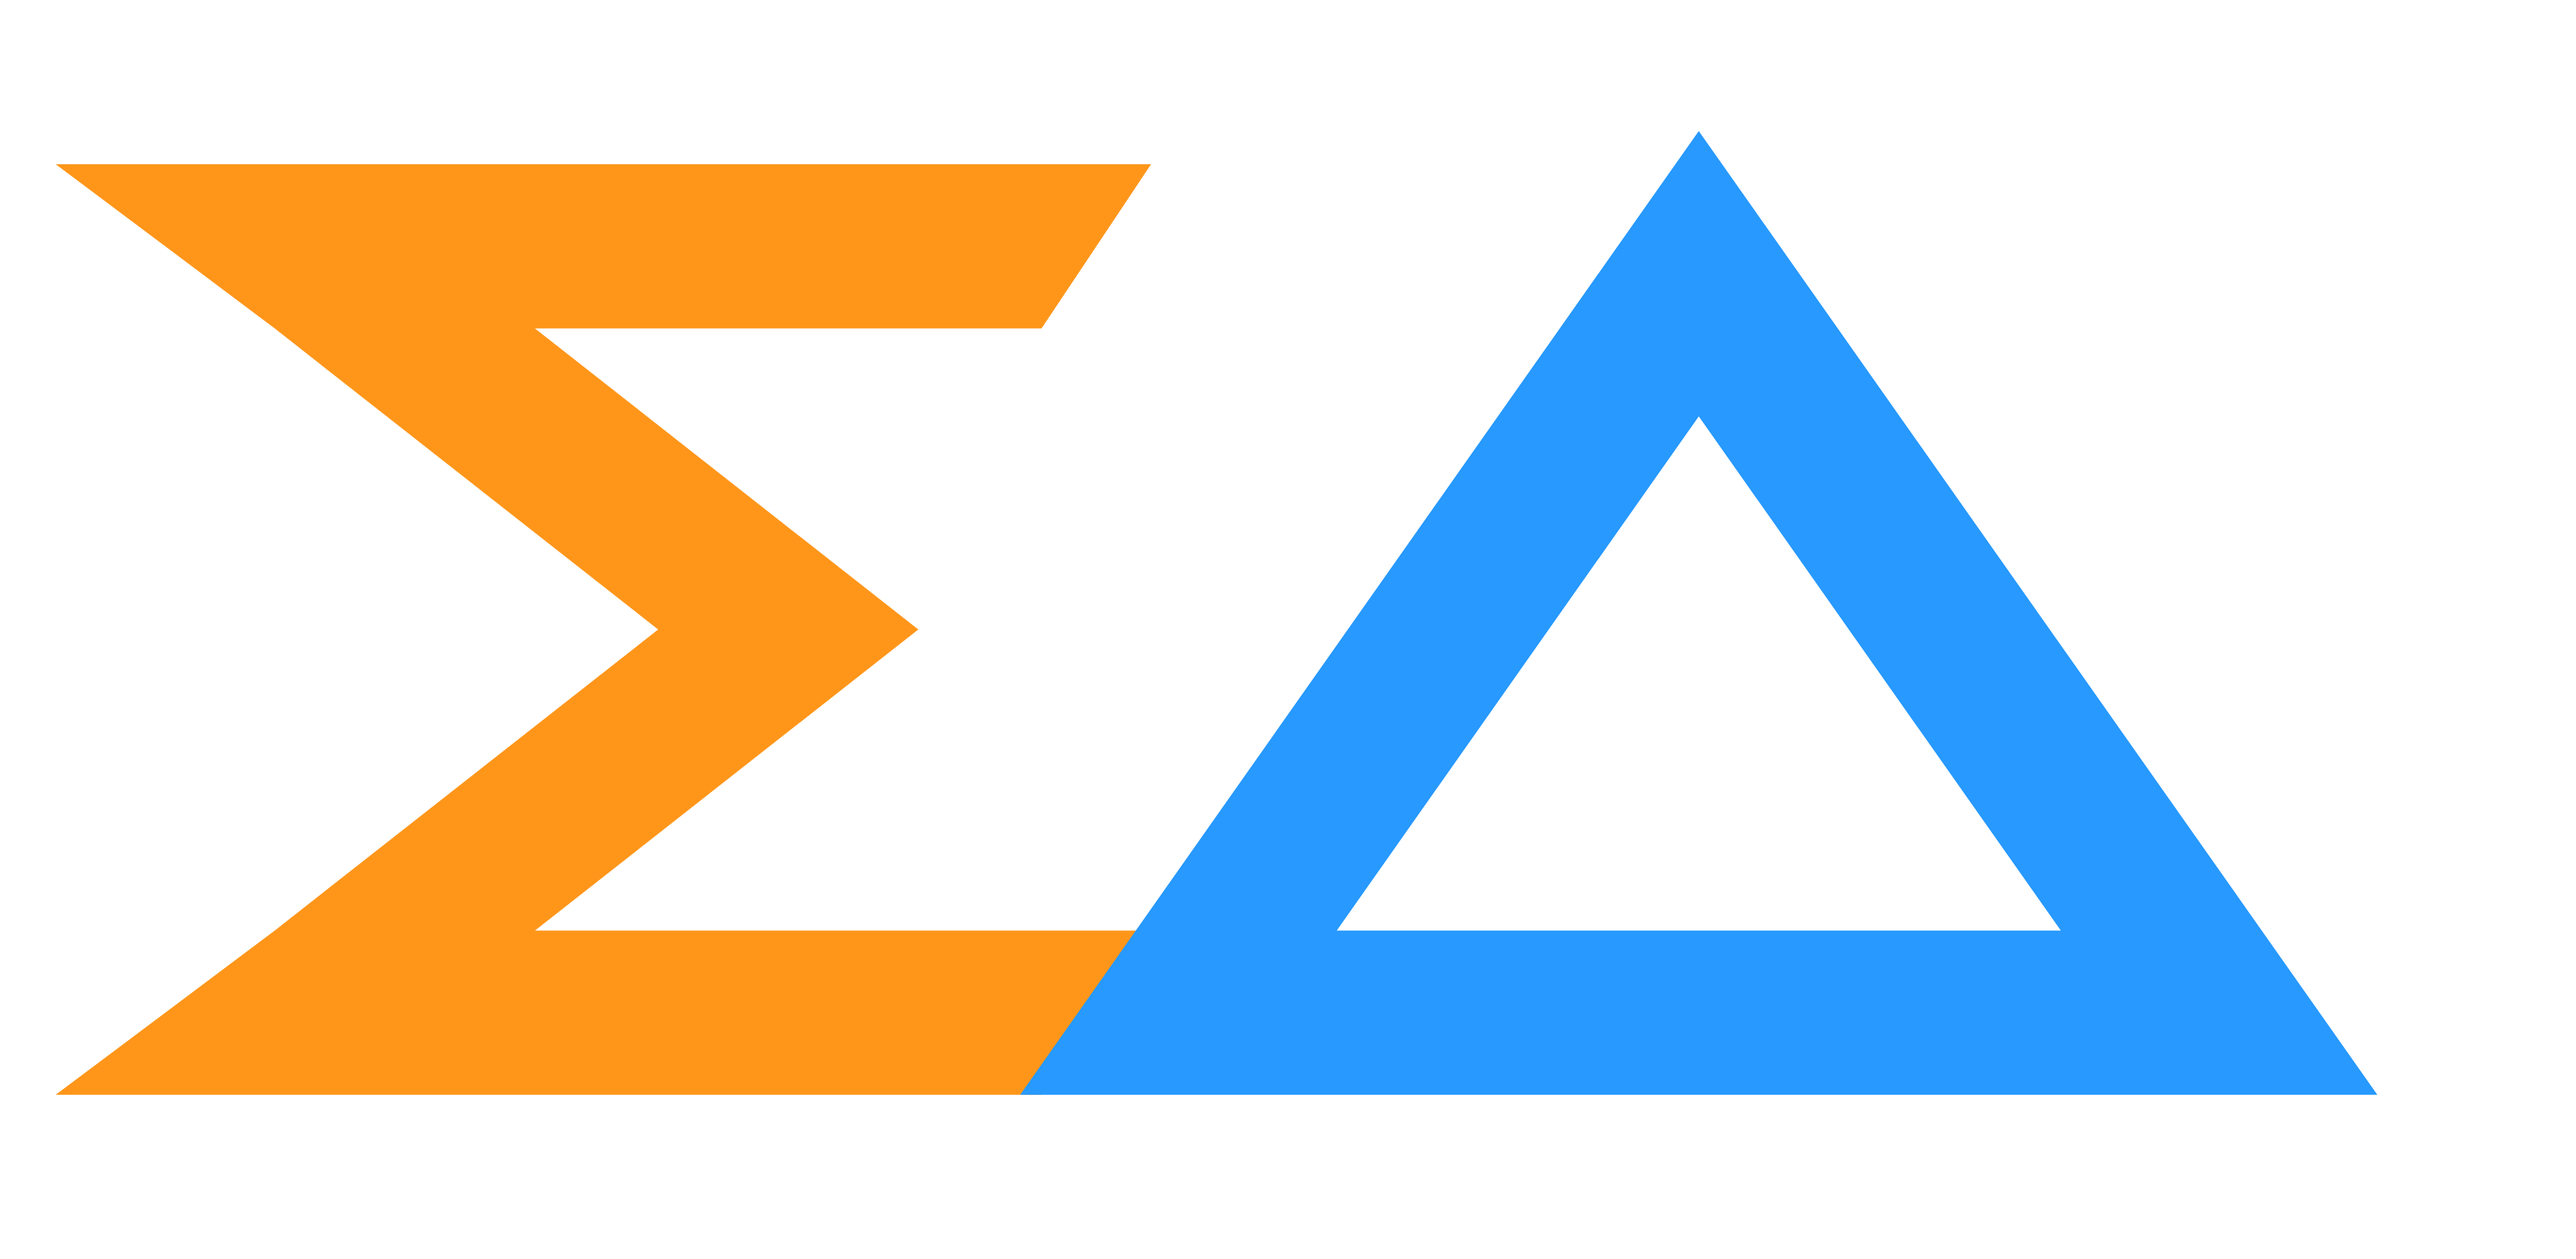
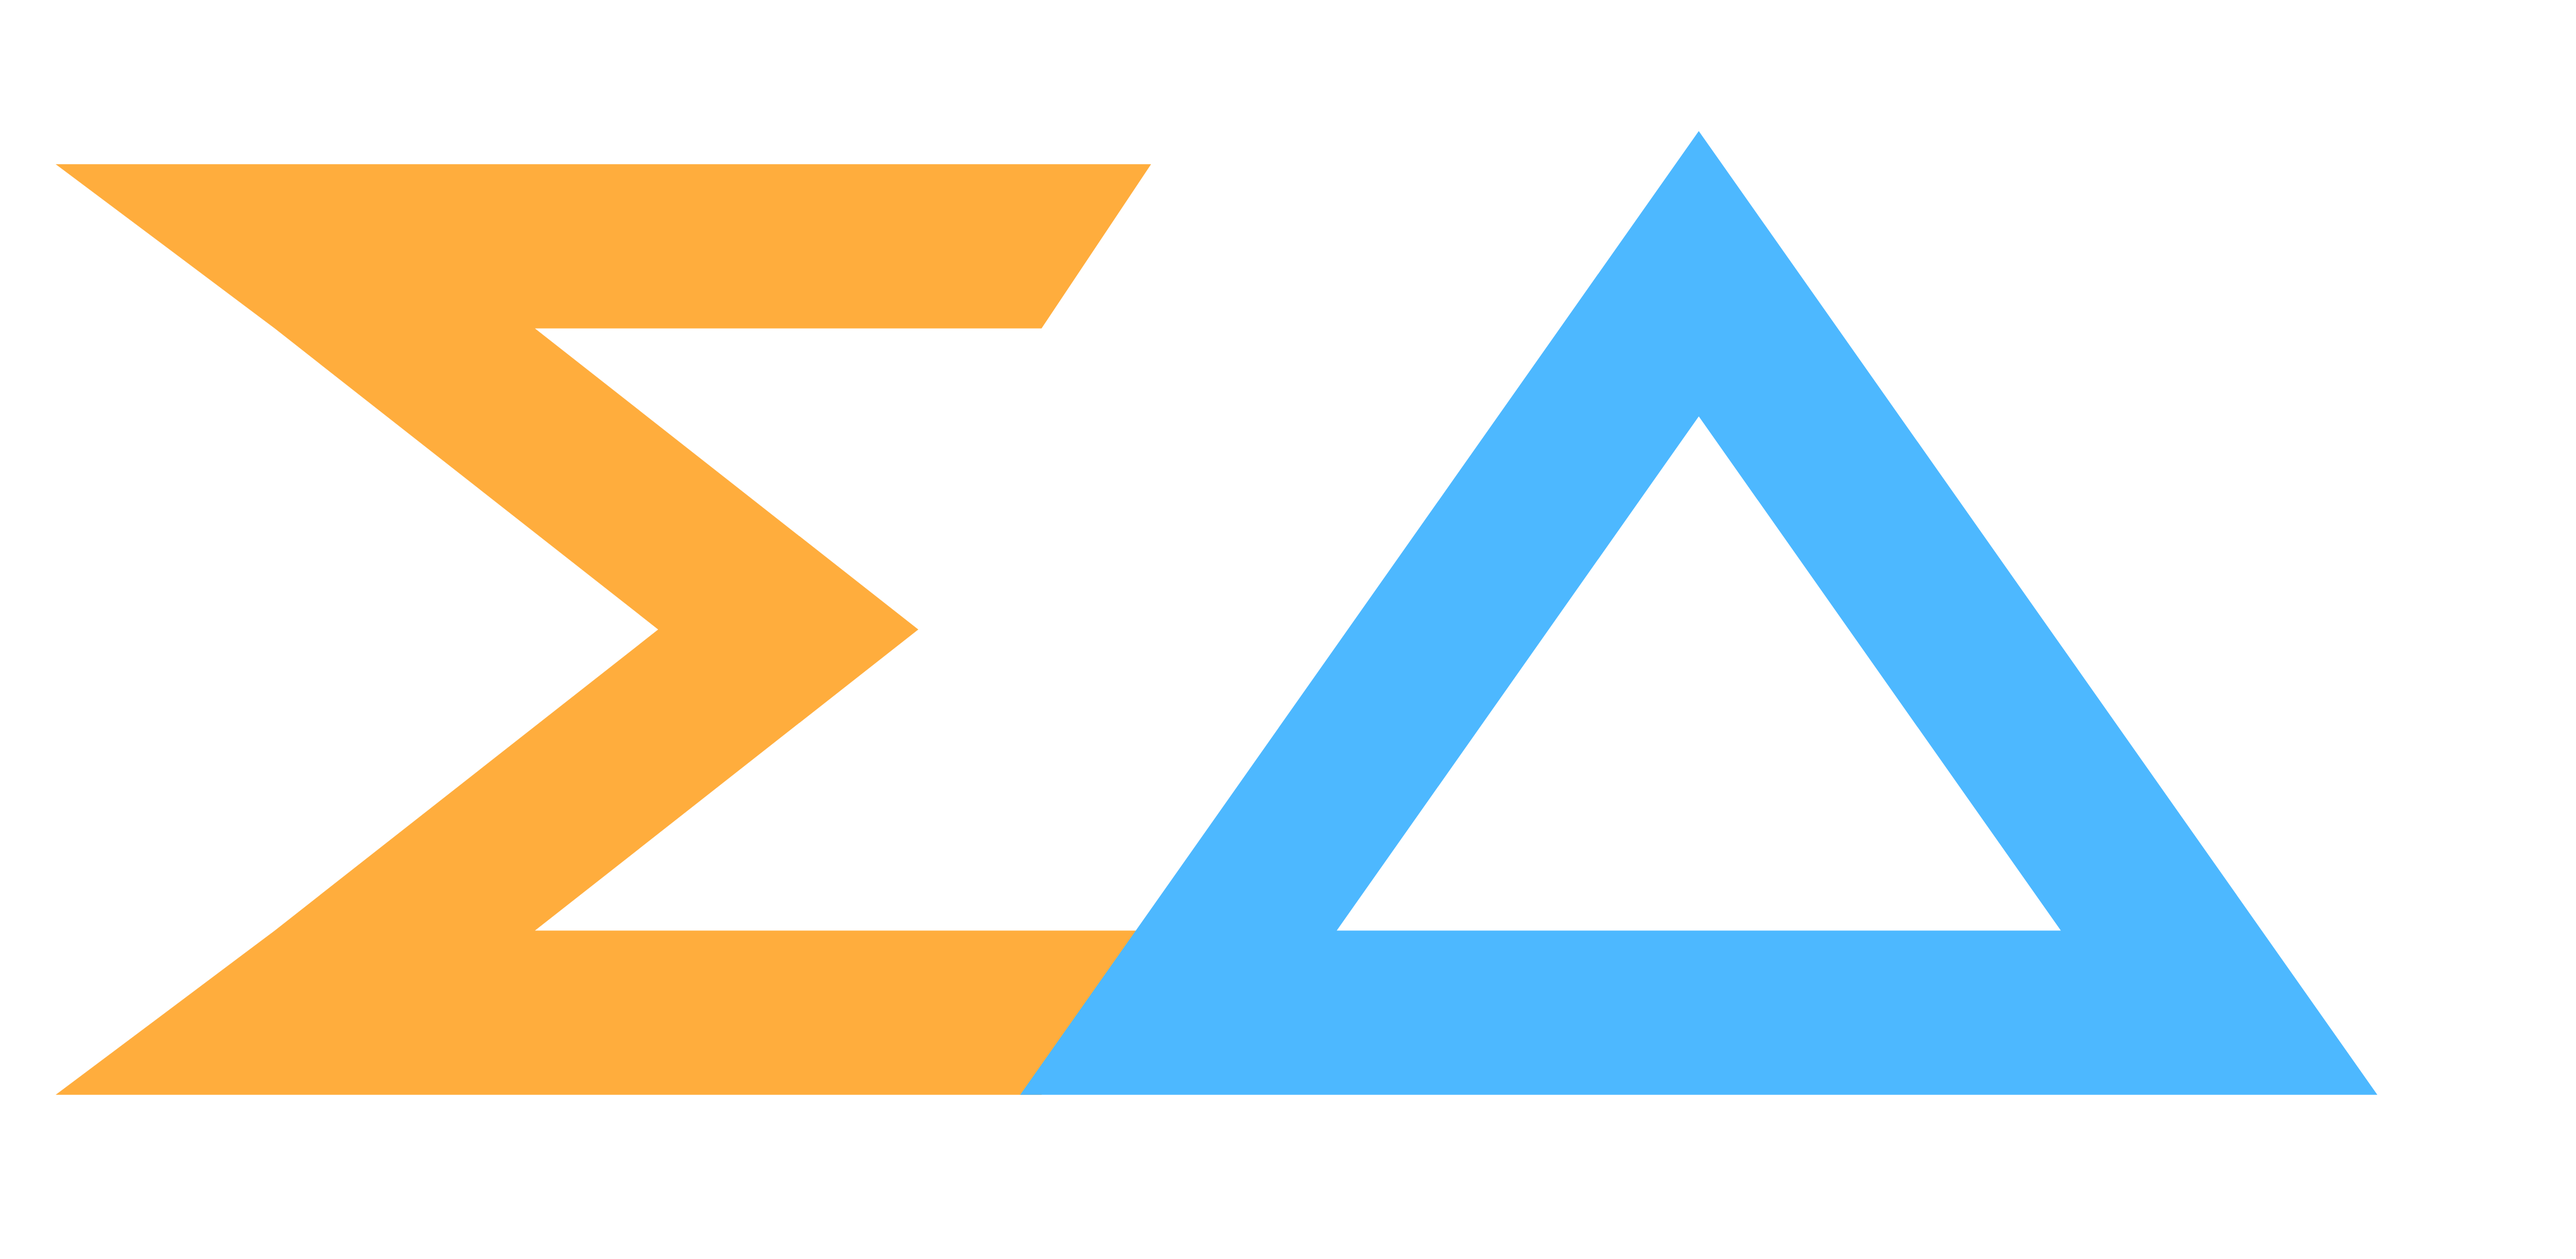
Lighten brand mark colors

Changed region(s): [[0.0312, 0.0929, 0.9375, 0.8667]]

diff --git a/frontend/components/app-shell.tsx b/frontend/components/app-shell.tsx
@@ -223,11 +223,11 @@ function SigmaDeltaIcon({ gradientPrefix, ...props }: SigmaDeltaIconProps) {
       stroke="none"
       preserveAspectRatio="xMidYMid meet"
     >
-      <path d={sigmaPath} fill="#ff961a" />
+      <path d={sigmaPath} fill="#ffad3d" />
       <path
         d={deltaPath}
         fill="none"
-        stroke="#2799ff"
+        stroke="#4db8ff"
         strokeWidth="6"
         strokeLinejoin="miter"
       />
